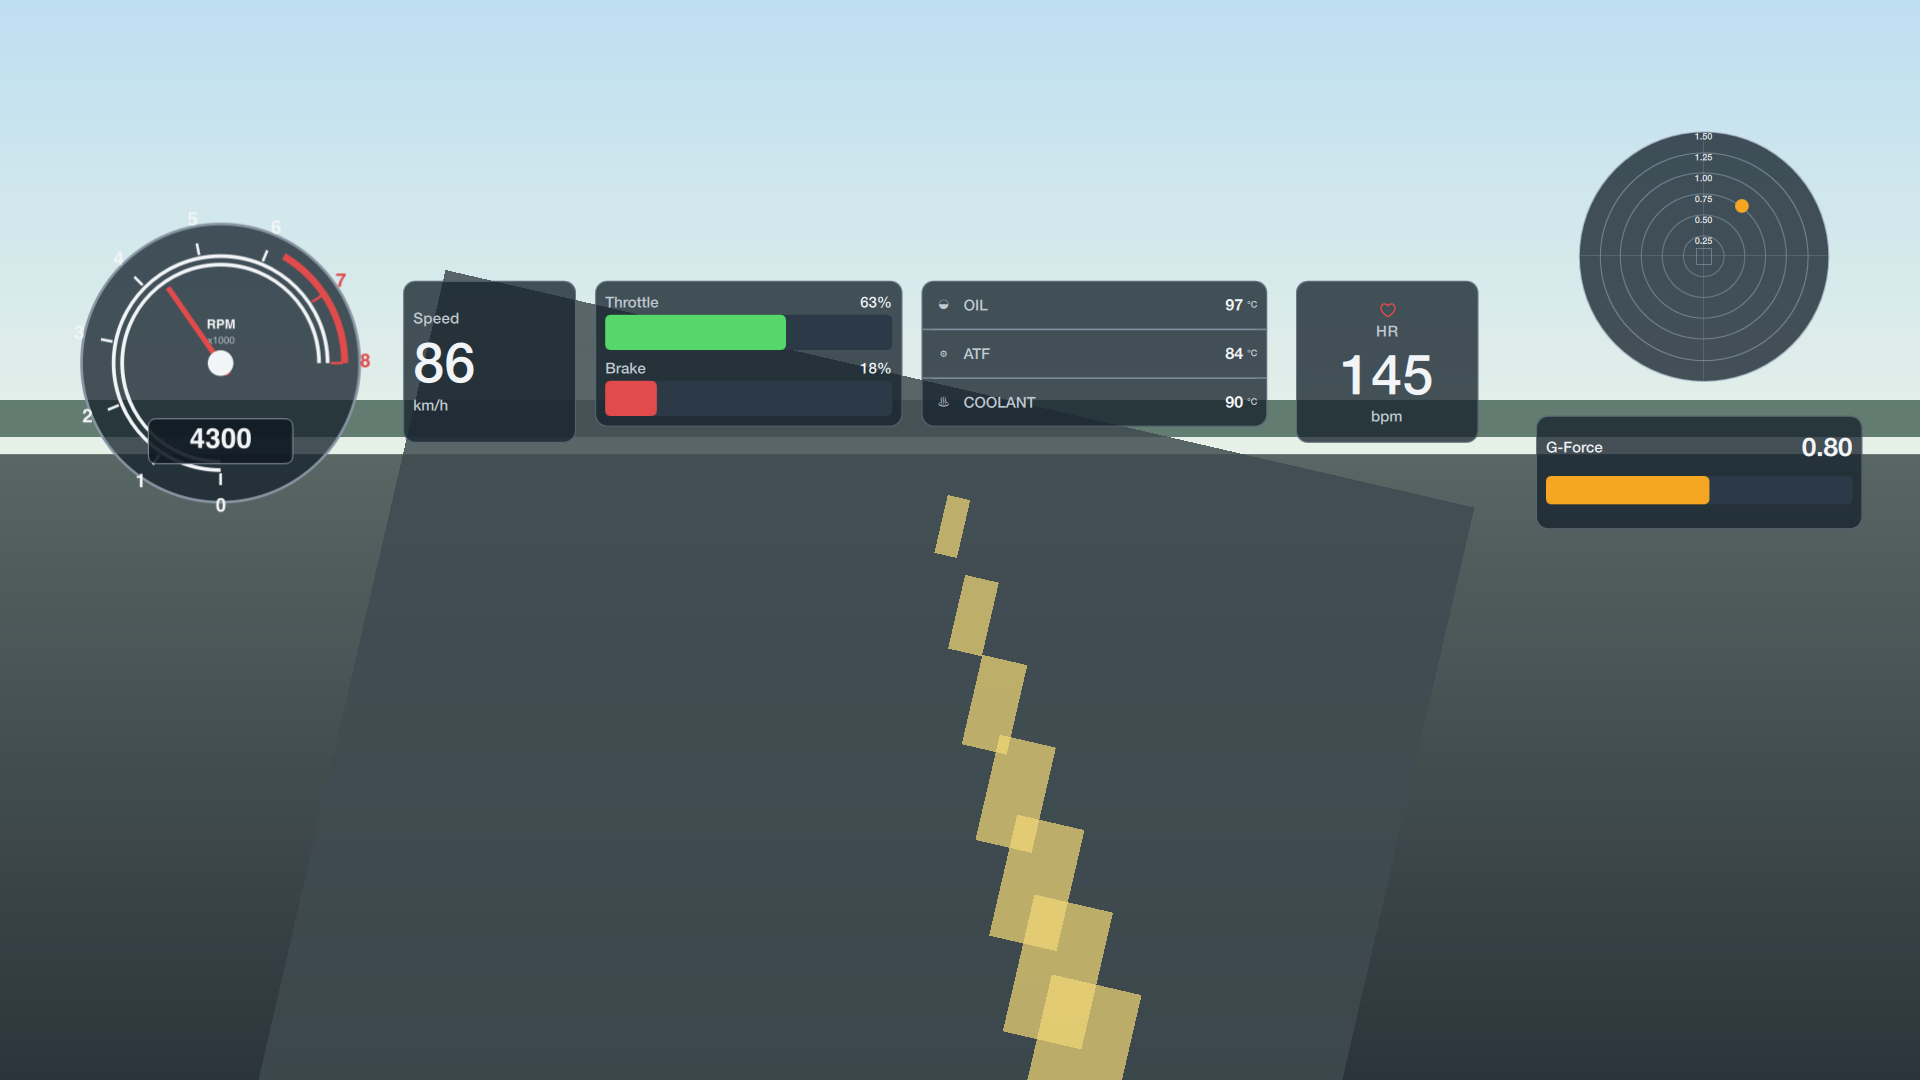
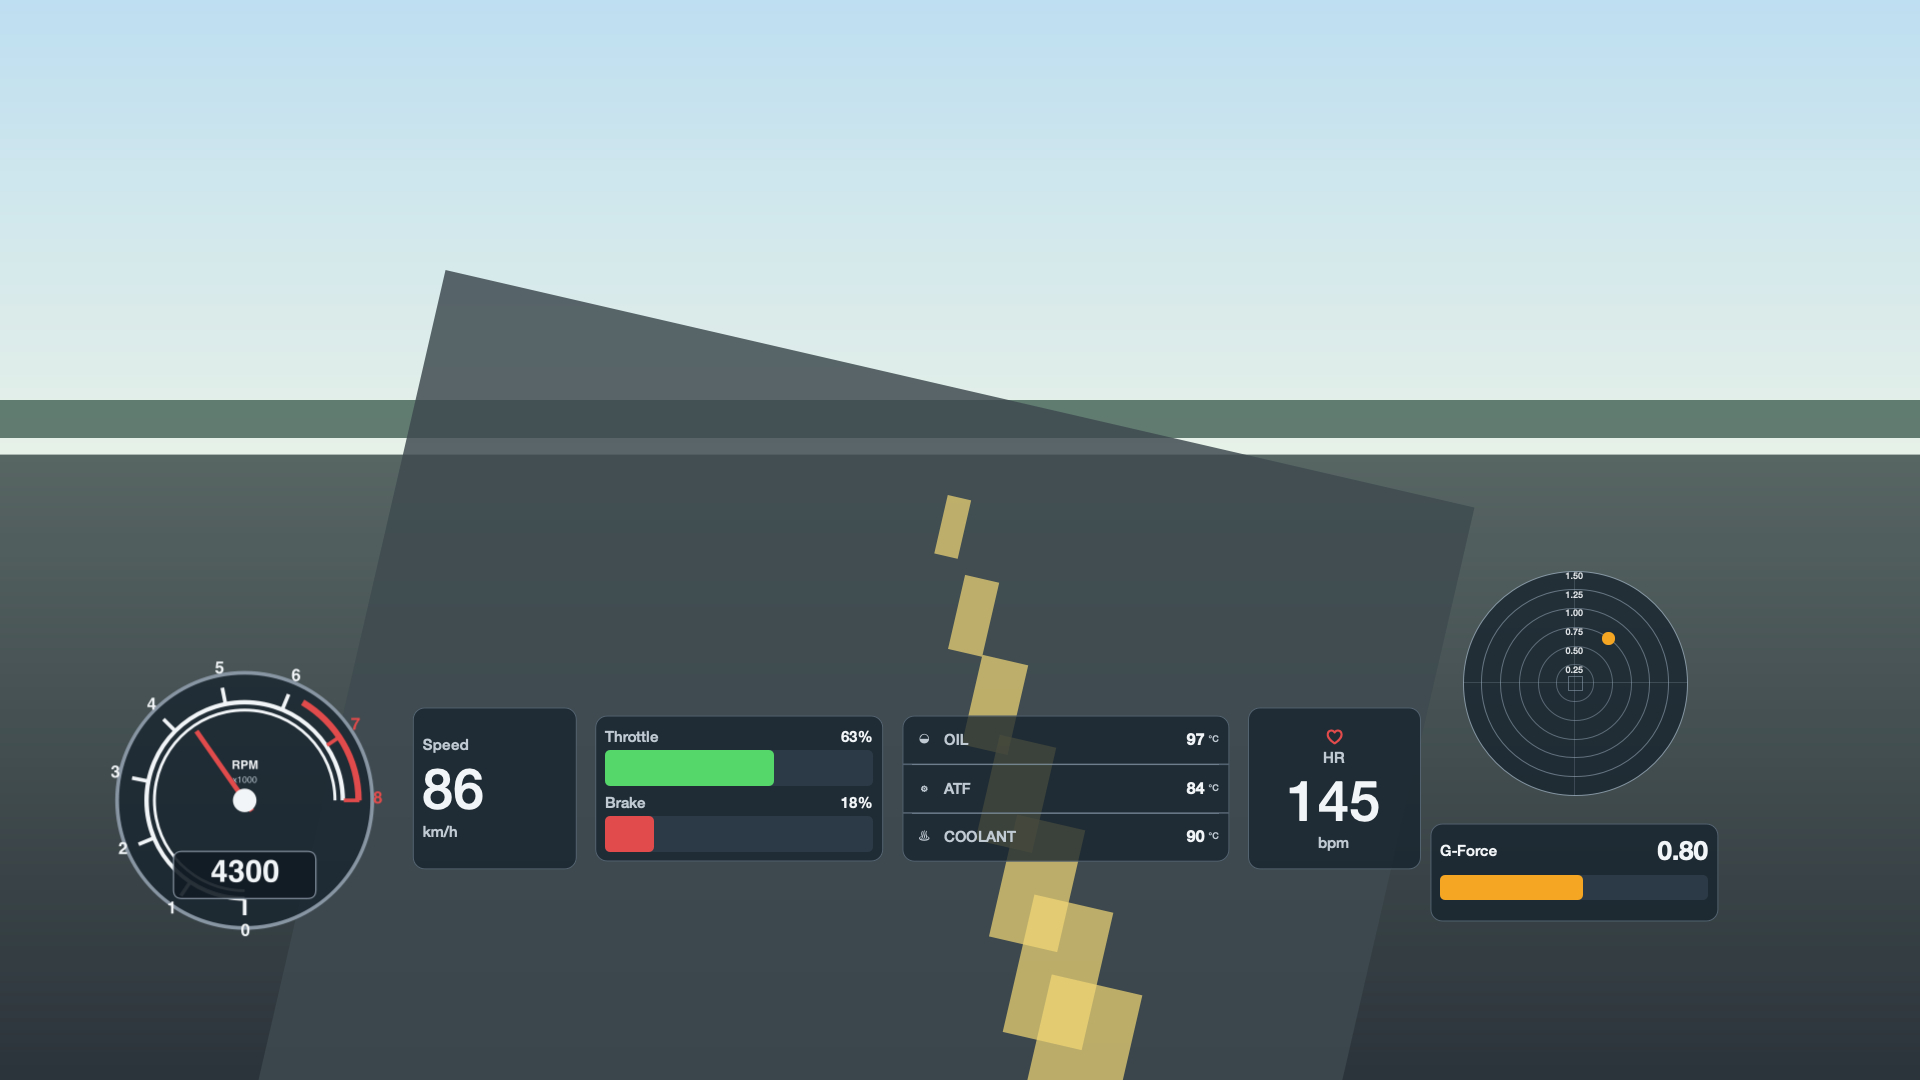
fix: finalize broadcast overlay composition

Changed region(s): [[0.0312, 0.1222, 0.9688, 0.4889], [0.0625, 0.5194, 0.9062, 0.8861]]

diff --git a/native/qml/widgets/RetroTachometerWidget.qml b/native/qml/widgets/RetroTachometerWidget.qml
@@ -46,8 +46,8 @@ Item {
             ctx.arc(cx, cy, radius * 1.30, 0, Math.PI * 2);
             ctx.fill();
             ctx.globalAlpha = 1;
-            ctx.lineWidth = Math.max(frame.sceneScale, radius * 0.025);
-            ctx.strokeStyle = settings.rimColor || "#8895a3";
+            ctx.lineWidth = Math.max(1.5 * frame.sceneScale, radius * 0.038);
+            ctx.strokeStyle = settings.rimColor || "#a6b3bf";
             ctx.beginPath();
             ctx.arc(cx, cy, radius * 1.30, 0, Math.PI * 2);
             ctx.stroke();
@@ -59,7 +59,8 @@ Item {
                 ? frame.configuredFontSize() * frame.sceneScale
                 : Math.max(9 * frame.sceneScale, radius * 0.18)) + "px " + frame.family;
             for (const ring of [0.92, 1.0]) {
-                ctx.lineWidth = Math.max(2 * frame.sceneScale, radius * 0.035);
+                ctx.lineWidth = Math.max(2 * frame.sceneScale,
+                                         radius * (ring === 1.0 ? 0.045 : 0.030));
                 ctx.beginPath();
                 ctx.arc(cx, cy, radius * ring, Math.PI * 0.5, Math.PI * 2);
                 ctx.stroke();
@@ -75,10 +76,10 @@ Item {
                 const highRpm = step / steps >= 0.78;
                 ctx.strokeStyle = highRpm ? (settings.warningColor || "#e14b4b") : (settings.dialColor || "#f2f5f7");
                 ctx.fillStyle = ctx.strokeStyle;
-                ctx.lineWidth = Math.max(frame.sceneScale, radius * 0.025);
+                ctx.lineWidth = Math.max(1.5 * frame.sceneScale, radius * 0.038);
                 ctx.beginPath();
-                ctx.moveTo(cx + Math.cos(angle) * radius * 1.03, cy + Math.sin(angle) * radius * 1.03);
-                ctx.lineTo(cx + Math.cos(angle) * radius * 1.14, cy + Math.sin(angle) * radius * 1.14);
+                ctx.moveTo(cx + Math.cos(angle) * radius * 1.01, cy + Math.sin(angle) * radius * 1.01);
+                ctx.lineTo(cx + Math.cos(angle) * radius * 1.17, cy + Math.sin(angle) * radius * 1.17);
                 ctx.stroke();
                 ctx.fillText(String(Math.round((minimum + (maximum - minimum) * step / steps) / 1000)), cx + Math.cos(angle) * radius * 1.35, cy + Math.sin(angle) * radius * 1.35);
             }
@@ -101,8 +102,8 @@ Item {
                 ctx.arc(cx, cy, Math.max(5 * frame.sceneScale, radius * 0.12), 0, Math.PI * 2);
                 ctx.fill();
             }
-            const plateWidth = radius * 1.35;
-            const plateHeight = Math.max(22 * frame.sceneScale, radius * 0.42);
+            const plateWidth = radius * 1.45;
+            const plateHeight = Math.max(24 * frame.sceneScale, radius * 0.48);
             const plateX = cx - plateWidth / 2;
             const plateY = cy + radius * 0.52;
             ctx.globalAlpha = Number(settings.backgroundOpacity ?? 0.90);
@@ -110,12 +111,12 @@ Item {
             ctx.fillStyle = settings.valuePlateColor || "#111a22";
             ctx.fill();
             ctx.globalAlpha = 1;
-            ctx.strokeStyle = settings.rimColor || "#8895a3";
-            ctx.lineWidth = Math.max(1, frame.sceneScale * 0.75);
+            ctx.strokeStyle = settings.rimColor || "#a6b3bf";
+            ctx.lineWidth = Math.max(1.2, frame.sceneScale);
             roundedPath(ctx, plateX, plateY, plateWidth, plateHeight, Math.max(3 * frame.sceneScale, plateHeight * 0.18));
             ctx.stroke();
             ctx.fillStyle = settings.dialColor || "#f2f5f7";
-            ctx.font = "700 " + Math.max(14 * frame.sceneScale, plateHeight * 0.63) + "px " + frame.family;
+            ctx.font = "700 " + Math.max(15 * frame.sceneScale, plateHeight * 0.66) + "px " + frame.family;
             ctx.fillText(hasValue ? Math.round(value).toString() : "—", cx, plateY + plateHeight * 0.54);
         }
     }

diff --git a/native/qml/VisualSmokeScene.qml b/native/qml/VisualSmokeScene.qml
@@ -109,42 +109,45 @@ Item {
                     "widgetCues": [], "widgetGroupId": ""
                 });
             };
-            add("retroTachometer", 0.025, 0.17, 0.18, 0.32, {
+            // Keep the primary modules as one lower-third band rather than
+            // distributing them across the whole driving view. The radar and
+            // magnitude bar intentionally form their own compact right cluster.
+            add("retroTachometer", 0.045, 0.58, 0.165, 0.31, {
                 "showBackground": false, "showBorder": false, "padding": 0,
                 "source": "rpm", "label": "RPM", "minValue": 0, "maxValue": 8000,
                 "panelColor": "#16232d", "panelOpacity": 0.78, "dialColor": "#f2f5f7",
                 "needleColor": "#e14b4b", "warningColor": "#e14b4b", "rimColor": "#8895a3"
             });
-            add("speed", 0.21, 0.26, 0.09, 0.15, Object.assign({}, common, {
+            add("speed", 0.215, 0.655, 0.085, 0.15, Object.assign({}, common, {
                 "source": "speed", "label": "Speed", "unit": "km/h", "decimals": 0
             }));
-            add("pedals", 0.31, 0.26, 0.16, 0.135, Object.assign({}, common, {
+            add("pedals", 0.31, 0.6625, 0.15, 0.135, Object.assign({}, common, {
                 "acceleratorSource": "throttle", "brakeSource": "brake",
                 "acceleratorLabel": "Throttle", "brakeLabel": "Brake",
                 "acceleratorColor": "#55d76a", "brakeColor": "#e14b4b", "showValues": true
             }));
-            add("retroCustomValue", 0.48, 0.26, 0.18, 0.045, Object.assign({}, common, {
+            add("retroCustomValue", 0.47, 0.6625, 0.17, 0.045, Object.assign({}, common, {
                 "source": "oil", "label": "OIL", "unit": "°C", "decimals": 0,
                 "icon": "◒", "stackPosition": "top"
             }));
-            add("retroCustomValue", 0.48, 0.305, 0.18, 0.045, Object.assign({}, common, {
+            add("retroCustomValue", 0.47, 0.7075, 0.17, 0.045, Object.assign({}, common, {
                 "source": "atf", "label": "ATF", "unit": "°C", "decimals": 0,
                 "icon": "⚙", "stackPosition": "middle"
             }));
-            add("retroCustomValue", 0.48, 0.35, 0.18, 0.045, Object.assign({}, common, {
+            add("retroCustomValue", 0.47, 0.7525, 0.17, 0.045, Object.assign({}, common, {
                 "source": "coolant", "label": "COOLANT", "unit": "°C", "decimals": 0,
                 "icon": "♨", "stackPosition": "bottom"
             }));
-            add("heartRate", 0.675, 0.26, 0.095, 0.15, Object.assign({}, common, {
+            add("heartRate", 0.65, 0.655, 0.09, 0.15, Object.assign({}, common, {
                 "source": "heartRate", "label": "HR", "unit": "bpm", "accentColor": "#e14b4b"
             }));
-            add("f1GForceRadar", 0.815, 0.105, 0.145, 0.265, {
+            add("f1GForceRadar", 0.755, 0.515, 0.13, 0.235, {
                 "showBackground": false, "showBorder": false, "padding": 0,
                 "lateralSource": "lateralG", "longitudinalSource": "longitudinalG",
                 "maxG": 1.5, "ringStepG": 0.25, "radarBackgroundColor": "#16232d",
                 "backgroundOpacity": 0.78, "dotColor": "#f5a623", "gridColor": "#96a8b8"
             });
-            add("gForceMagnitudeBar", 0.80, 0.385, 0.17, 0.105, Object.assign({}, common, {
+            add("gForceMagnitudeBar", 0.745, 0.7625, 0.15, 0.09, Object.assign({}, common, {
                 "lateralSource": "lateralG", "longitudinalSource": "longitudinalG",
                 "maxG": 1.5, "labelText": "G-Force", "decimals": 2,
                 "barColor": "#f5a623", "barBackgroundColor": "#2b3a46"
